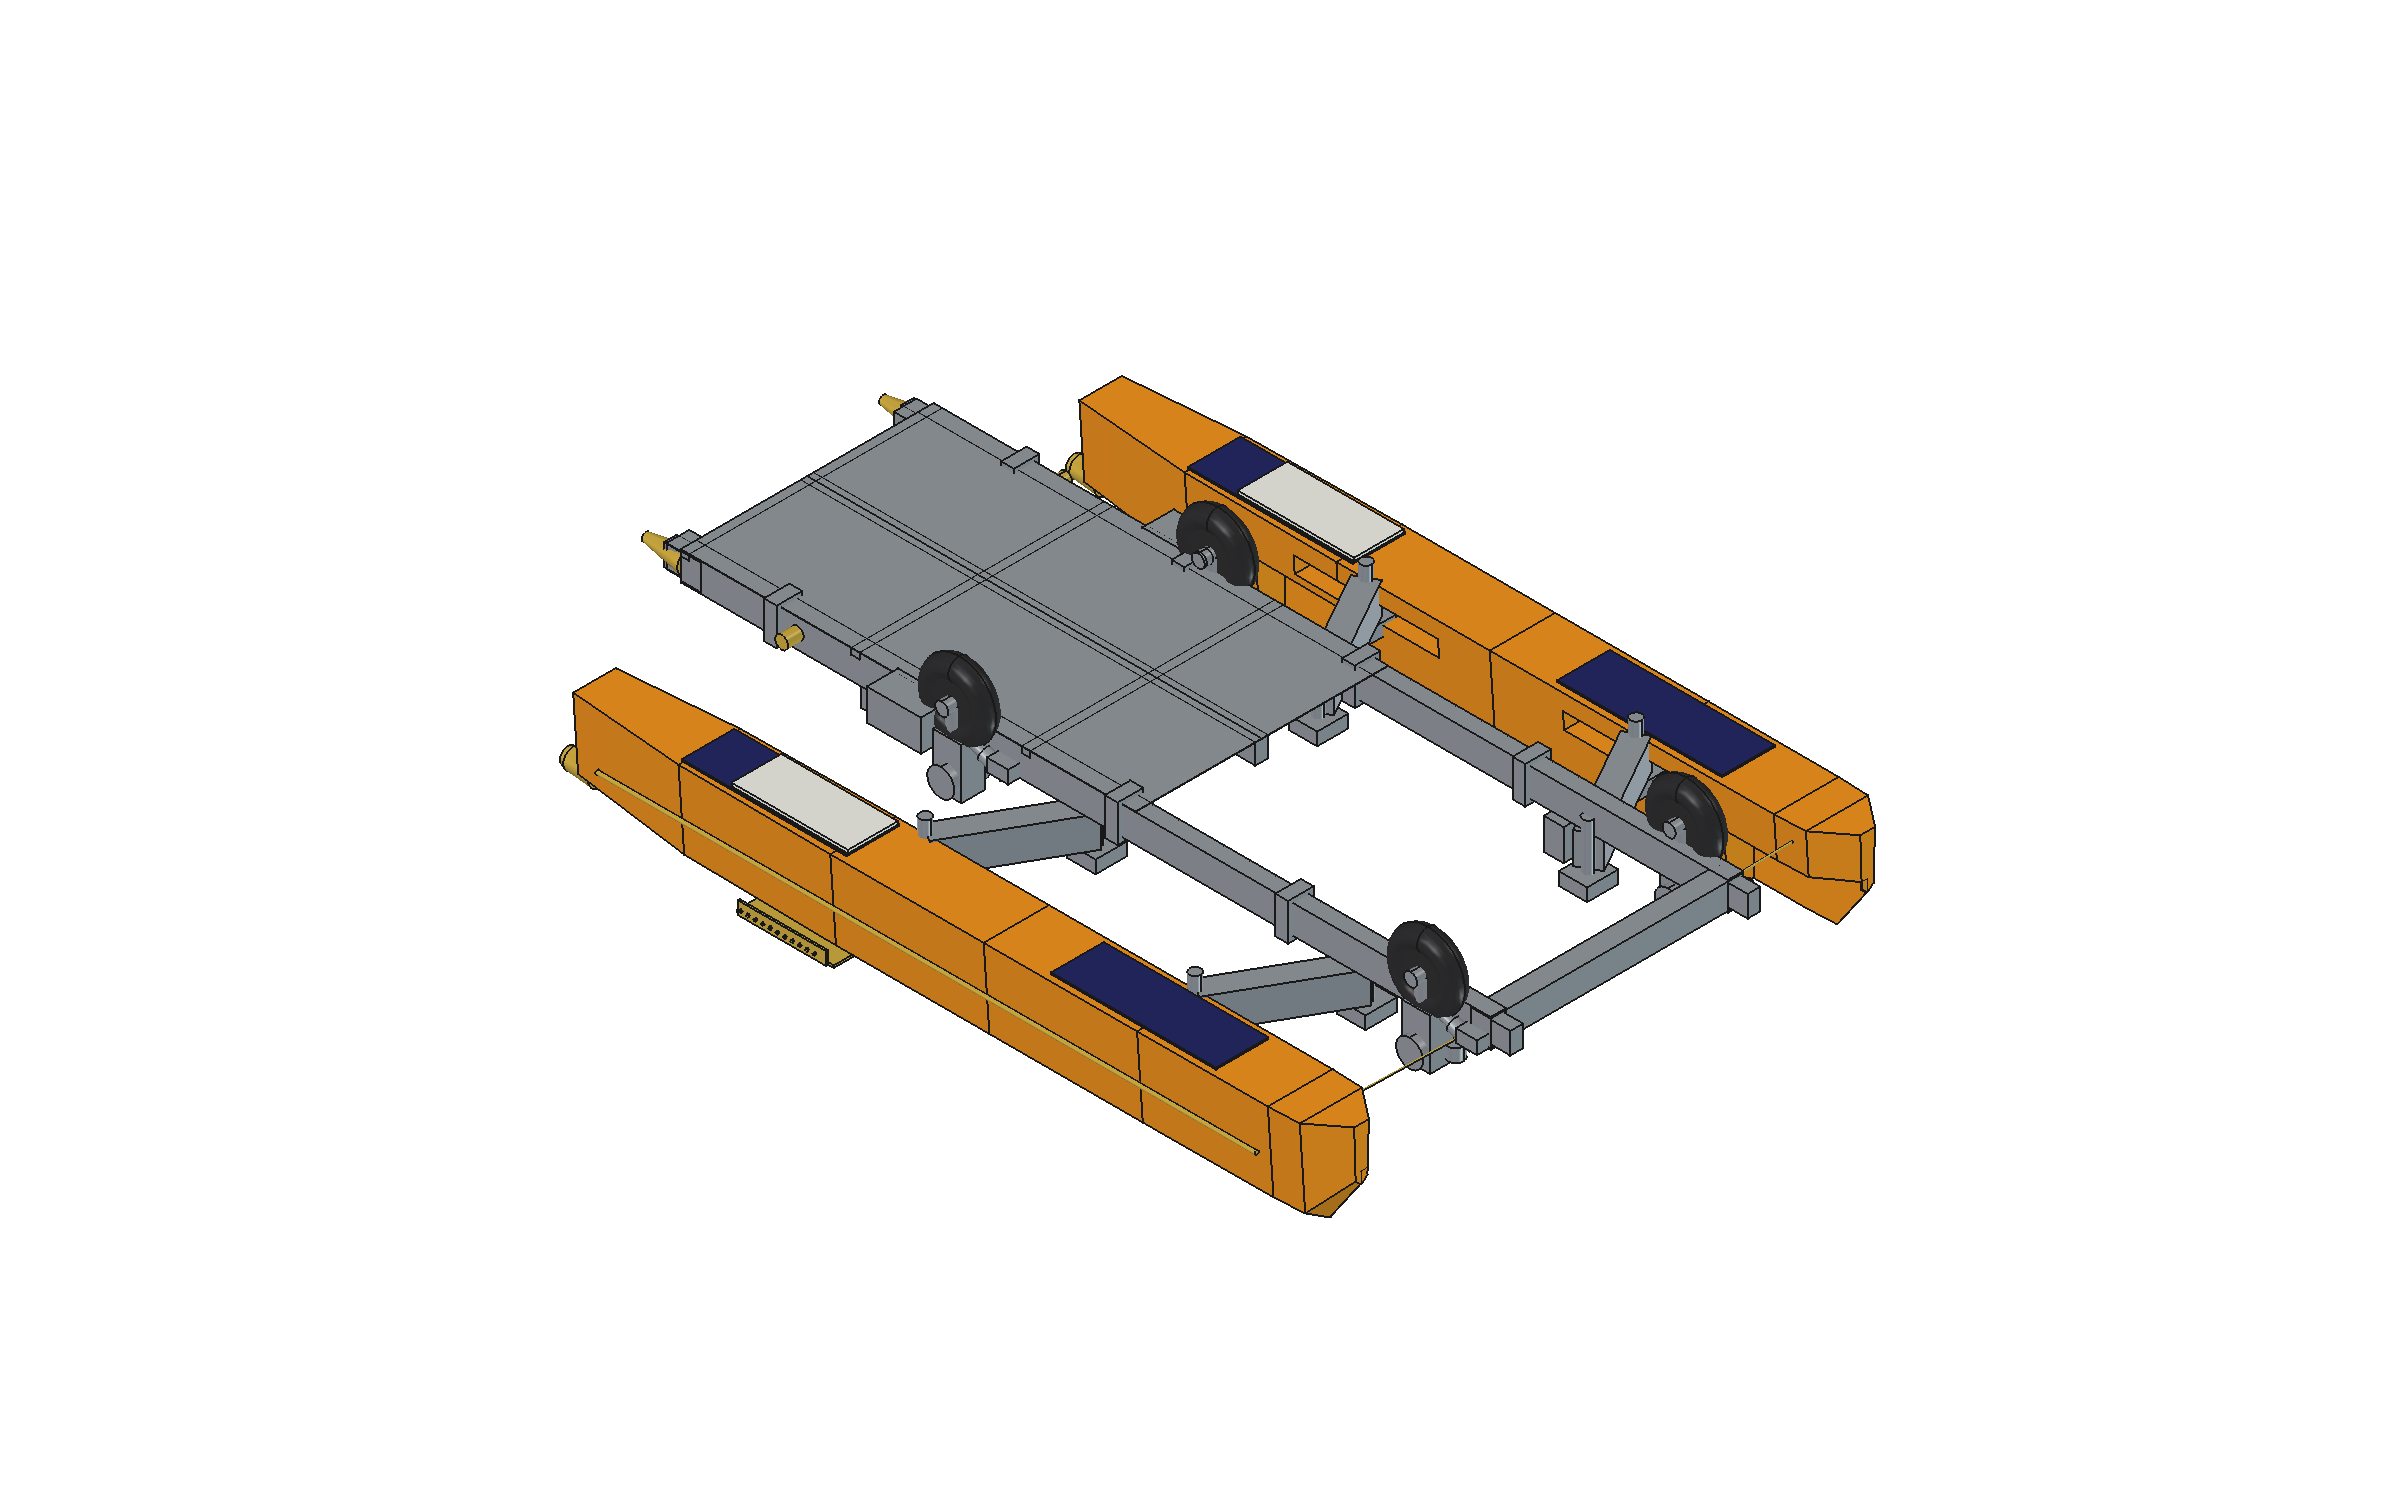
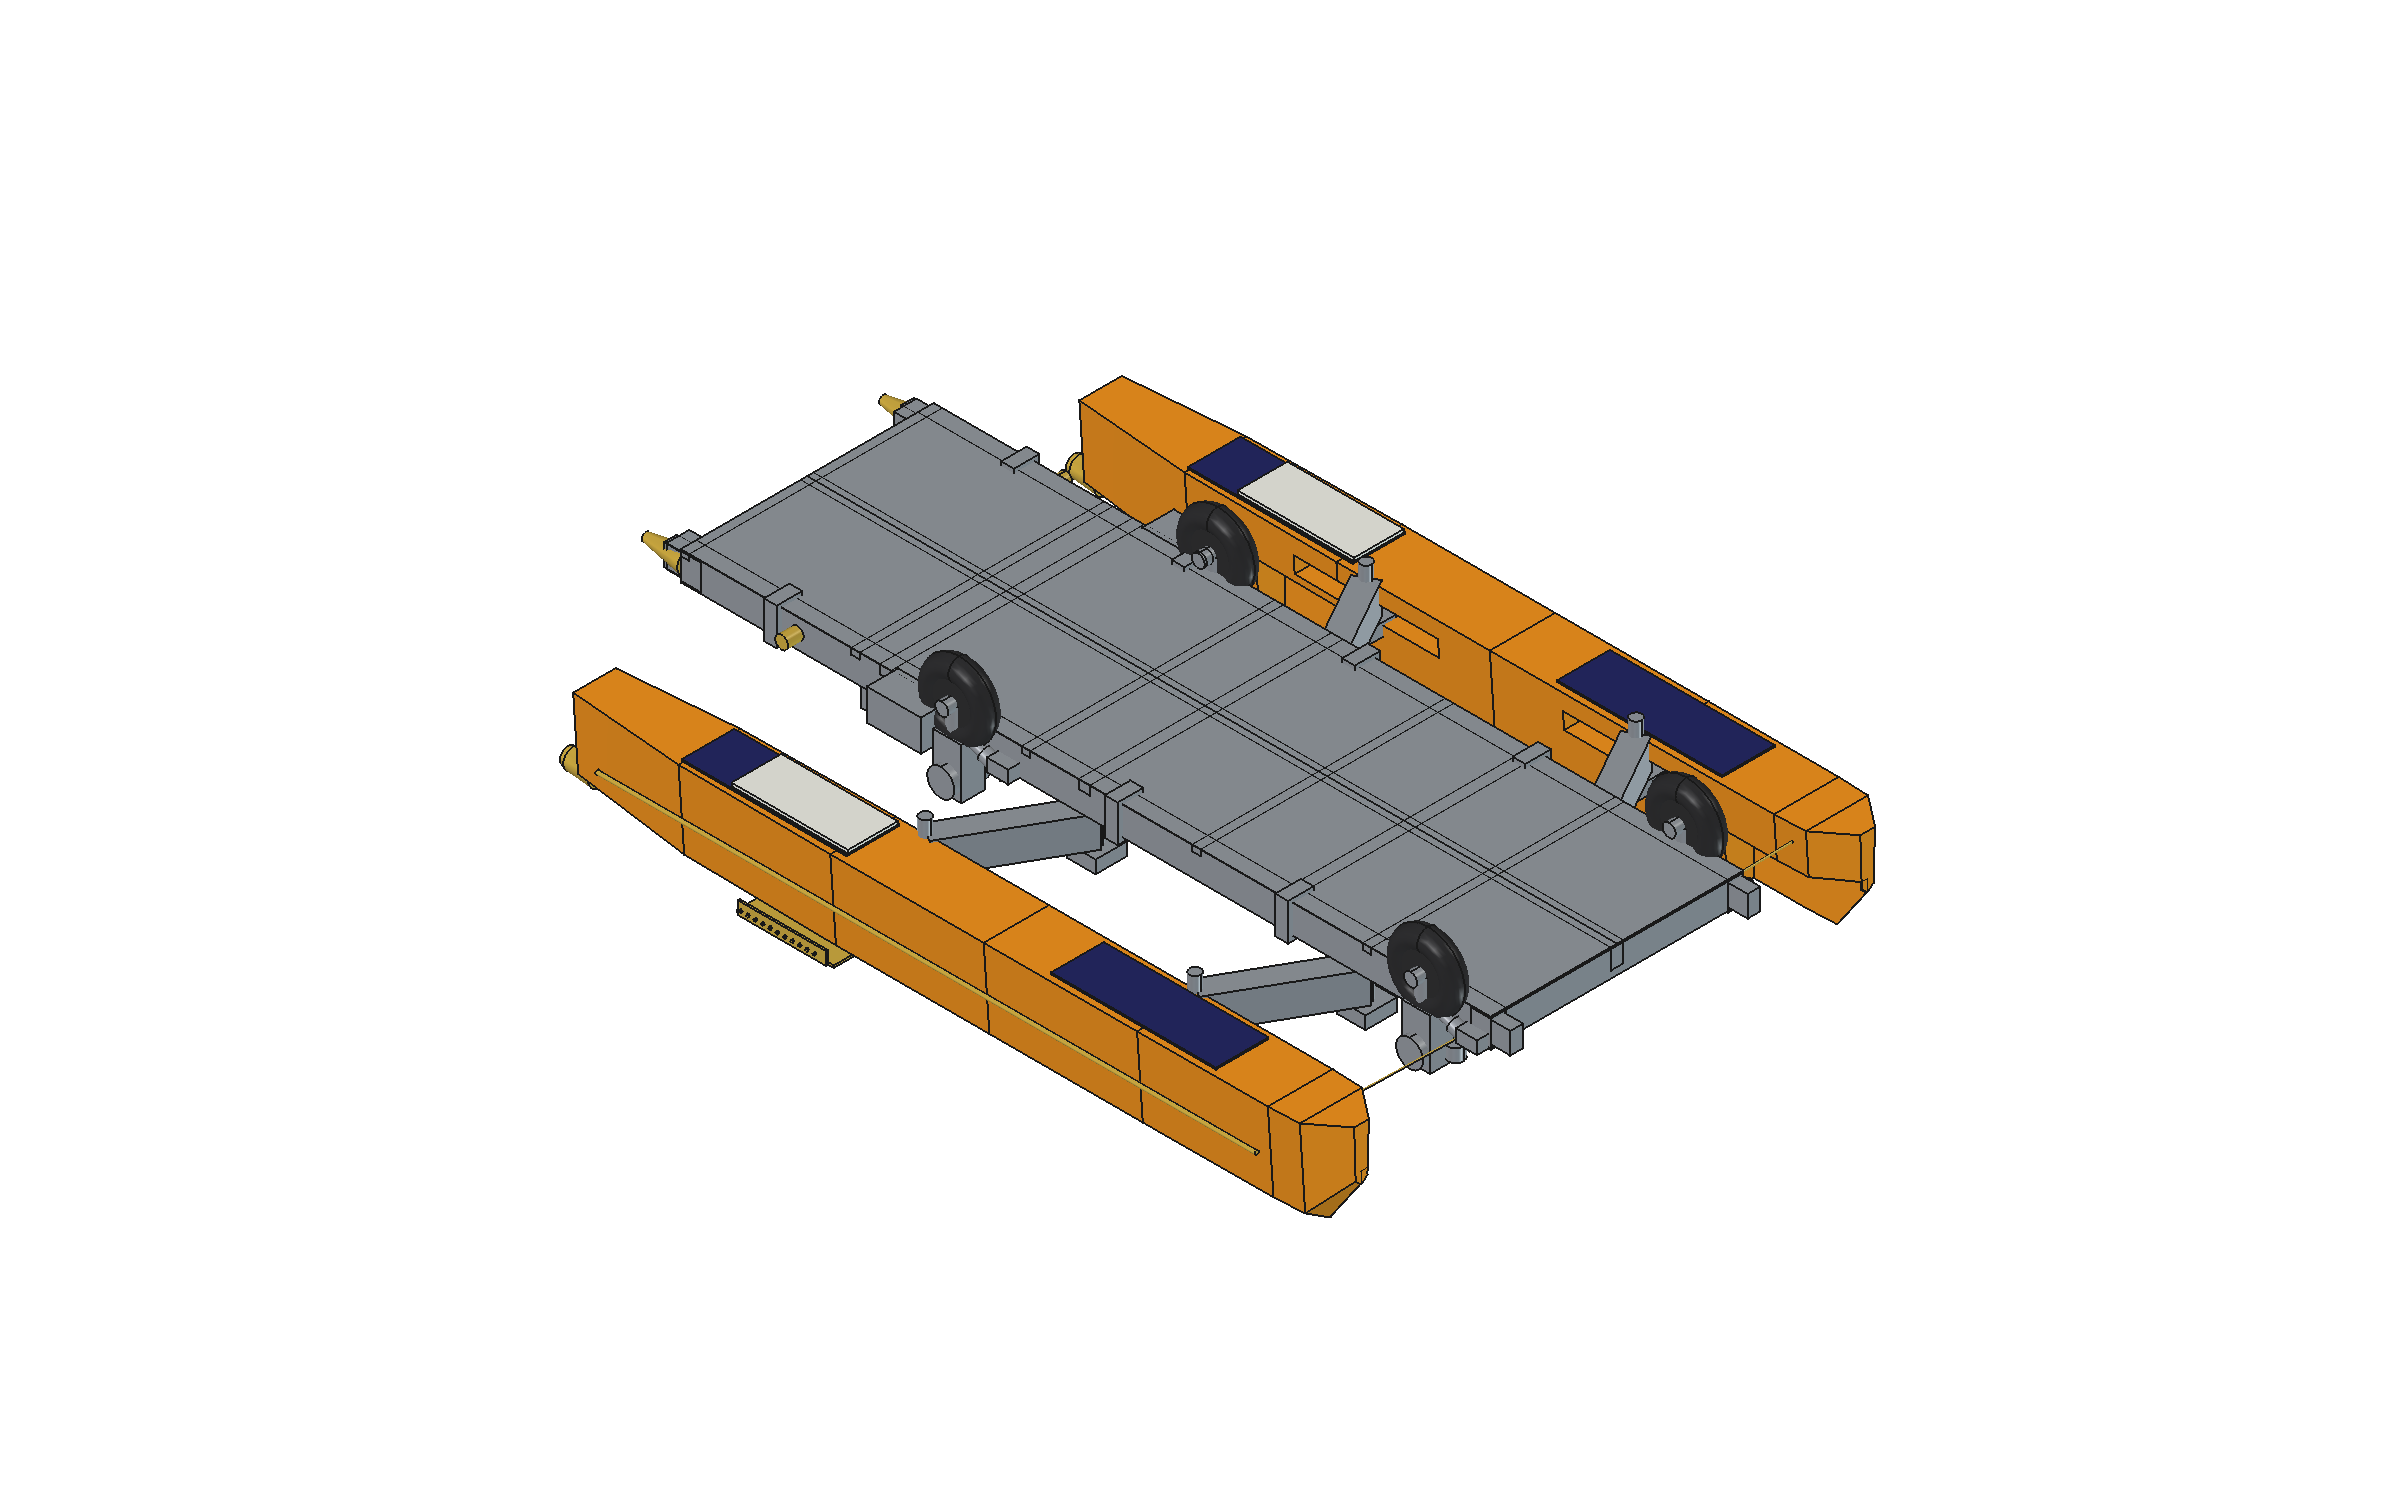
Full-length hangar deck, and view.sh stops locking the machine up
view.sh ran FreeCAD in the FOREGROUND at normal priority.  Building
seven modes is minutes of solid OCC work, so it held the terminal and
starved the desktop on a 16 GB machine - the reported symptom was the
whole computer blocking.

It now launches detached in its own session, niced to 12 and ionice
class 2, logs to $TMPDIR/boat-view.log, prints the pid and returns in
60 ms.  Closing the terminal no longer kills the build.  Two flags for
when you want the old behaviour: -f runs in the foreground for
debugging, -q builds headless with --console, which is about ten times
faster when no window is wanted.  Both close stdin so --console cannot
drop into its interactive prompt and hang.

The deck now covers the WHOLE frame: 5.70 x 1.78 m, 10.1 m2, against
3.2 m before.  Detached and lying alongside, the hangar becomes a
pontoon with roughly as much deck as the boat's own roof - somewhere to
work, swim off or stack gear while the cabin stays a cabin.  Two panels
on a centreline stringer with bearers every 1.4 m, so neither panel
cantilevers 890 mm off its girder.

It costs 134 kg against 76, which is the biggest single item on the
hangar after the float shells, and it takes the loaded boat to 3450 kg
against the 3500 limit.  50 kg of margin is not a margin, so checks()
now raises it as an open item in its own right, with the two ways out
stated: the battery pack in the car gives 407 kg back, and the deck
itself is removable.

Changed region(s): [[0.4688, 0.46, 0.7188, 0.6747]]

diff --git a/freecad/params.py b/freecad/params.py
@@ -321,20 +321,26 @@ DECK_STRINGER = (90, 140, 4)       # centreline beam: without it each
                                    # girder, which 3 mm plate will not do
 
 
-DECK_L = 3200                      # NOT the full 5700 of the frame.
-                                   # Plate is the whole cost of a deck -
-                                   # full length is 134 kg against 75 -
-                                   # and 3.2 x 1.78 m is already more
-                                   # standing room than a tender needs.
-                                   # It sits at the aft end, over the
-                                   # bight, where the drawbar and the
-                                   # boarding are.
+# DECK_L is GIRDER_LEN, resolved in deck_panels() because the
+# girders are defined further down.  THE WHOLE FRAME, bight to forward
+                                   # tie. Detached and lying alongside,
+                                   # the hangar is then a 5.7 x 1.78 m
+                                   # pontoon - 10.1 m2, which roughly
+                                   # doubles the boat's own 12.7 m2 of
+                                   # roof deck. That is the point of it:
+                                   # somewhere to work, swim off, or put
+                                   # a boat's worth of gear while the
+                                   # cabin stays a cabin.
+                                   #
+                                   # Plate is the whole cost of a deck,
+                                   # so this is 134 kg against 76 for
+                                   # the 3.2 m version. Paid knowingly.
 
 
 def deck_panels():
     """(panel width mm, length mm) - two of them, one each side of the
     centreline, so one person and the haul rope can lift each."""
-    return (GIRDER_Y + GIRDER_SECTION[0] / 2, DECK_L)
+    return (GIRDER_Y + GIRDER_SECTION[0] / 2, GIRDER_LEN)
 
 
 def deck_mass_alu():
@@ -2335,6 +2341,13 @@ def checks(verbose=True, strict=True):
             f"{all_up + CREW_STORES - 3500:.0f} kg over the 3500 limit - "
             "the calculated scantlings (structure_calc.py) cost more "
             "than the guessed ones; see docs/weight.md for the levers")
+    if 3500 - (all_up + CREW_STORES) < 150:
+        open_items.append(
+            f"road margin: only {3500 - all_up - CREW_STORES:.0f} kg under "
+            f"the 3500 kg O2 limit loaded. The full-length hangar deck is "
+            f"{deck_mass_alu():.0f} kg of it; the battery pack in the car "
+            f"gives {3500 - road_mass_kg(False)[0] - CREW_STORES:.0f} kg "
+            "back. Weigh the boat before believing any of it")
     if all_up > DESIGN_ALL_UP:
         open_items.append(
             f"mass budget: {all_up:.0f} kg computed vs {DESIGN_ALL_UP} kg "

diff --git a/freecad/build_boat.py b/freecad/build_boat.py
@@ -755,6 +755,9 @@ def build_hangar(phi, coupled=True, tow="sea"):
     dw, dl = P.deck_panels()
     sb, sh, _st = P.DECK_STRINGER
     parts.append(box(dl, sb, sh, (P.GIRDER_X0, -sb / 2, P.DECK_Z - sh)))
+    for _k in range(1, int(dl / 1400)):        # deck bearers on the stringer
+        parts.append(box(80, 2 * dw, 60,
+                         (P.GIRDER_X0 + _k * 1400, -dw, P.DECK_Z - 60)))
     if phi > 0:                     # laid only when the boat is off
         for sy in (-1, 1):
             parts.append(box(dl, dw, P.DECK_T,

diff --git a/docs/hangar.md b/docs/hangar.md
@@ -97,14 +97,16 @@ structure. And hanging the plate off the **floats** is out — they move.
 
 So:
 
-- **The deck** — 3.2 × 1.78 m of 3 mm 5083 tread plate in two panels,
-  on the frame between the girders at z 800, with a centreline
-  stringer so neither panel cantilevers off its girder. Undocked it is
-  what people stand on, 760 mm above the dinghy's waterline. Docked it
-  lifts out, because at z 800 between the girders is the inside of the
-  boat. **76 kg.** Full frame length would be 134 — plate is the whole
-  cost of a deck, and 3.2 m is already more standing room than a tender
-  needs.
+- **The deck** — **5.70 × 1.78 m**, the whole frame, in 3 mm 5083 tread
+  plate on two panels with a centreline stringer and bearers, so
+  neither panel cantilevers off its girder. **10.1 m²**, which roughly
+  doubles the boat's own 12.7 m² of roof deck: detached and lying
+  alongside, the hangar is a pontoon to work on, swim off, or park a
+  boat's worth of gear on while the cabin stays a cabin. 760 mm above
+  its own waterline. Docked it lifts out, because at z 800 between the
+  girders is the inside of the boat. **134 kg** — plate is the whole
+  cost of a deck, and this is the biggest single item on the hangar
+  after the float shells.
 - **The keel shoe** — 3 mm 5083 bolted flat on the stem's 1 560 mm
   bottom, transom to x 6 000. Sacrificial: it takes slipway rash,
   gravel and the odd rock. **81 kg**, and it belongs to the *boat*, not
